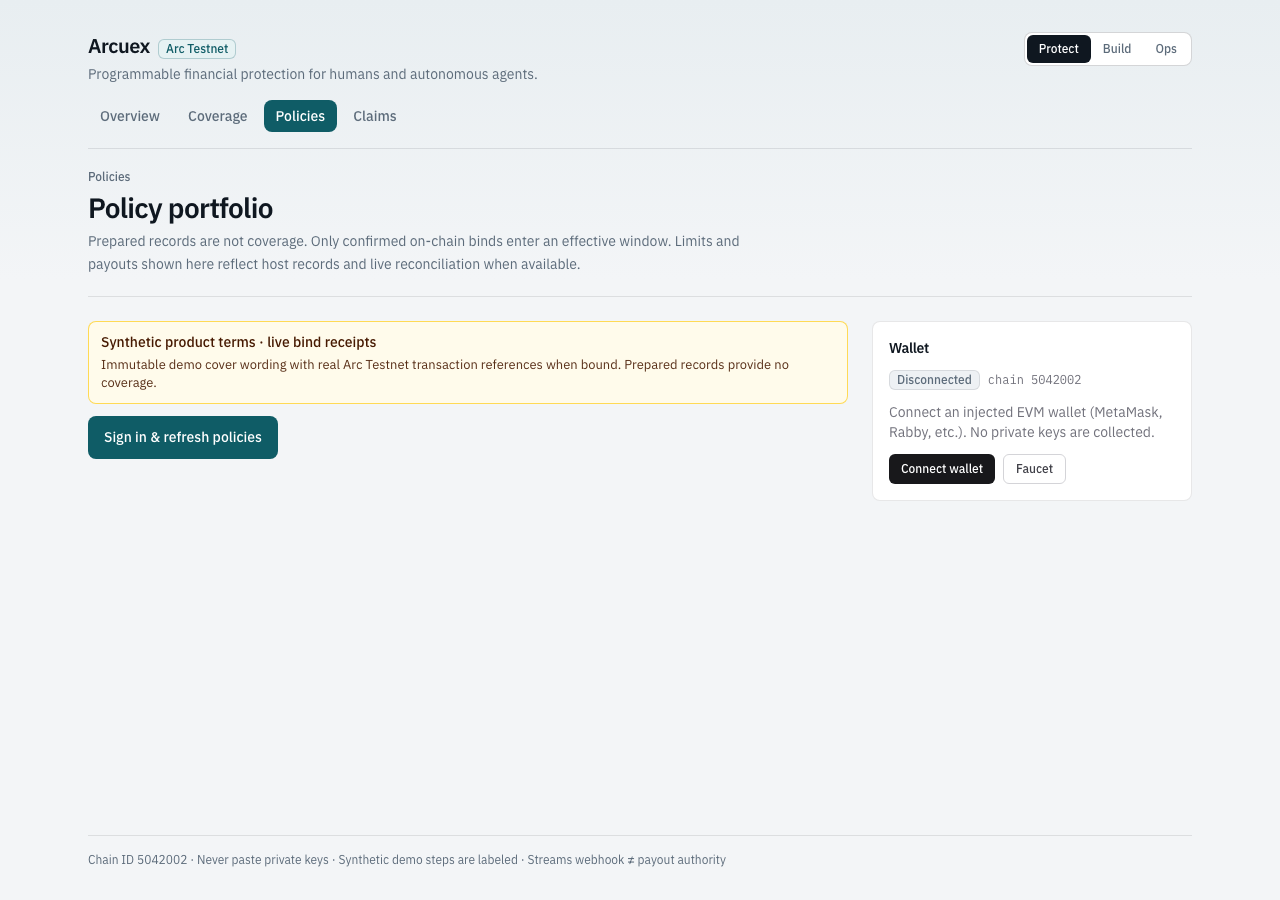
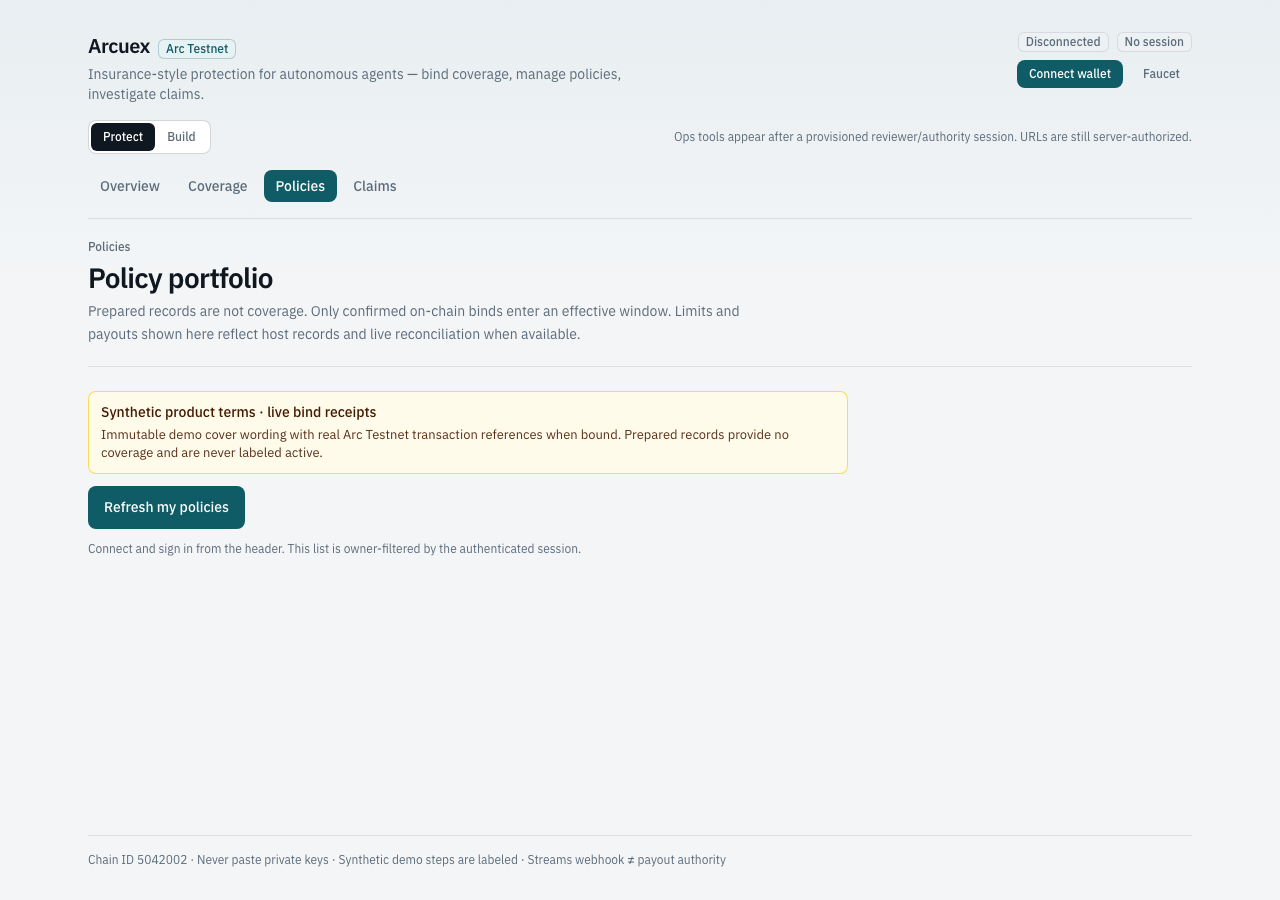
docs(ui): visual-pass screenshots and claims auth consolidation
Refresh desktop/mobile evidence after the product UX pass, dedupe unauthenticated claims prompts, and record verification without deploying Railway.

diff --git a/apps/web/src/components/claims/claims-workspace.tsx b/apps/web/src/components/claims/claims-workspace.tsx
@@ -33,19 +33,20 @@ export function ClaimsWorkspace() {
       ) : !session ? (
         <AuthRequired description="Use Sign in in the header after connecting your wallet. Cases load only with a server session cookie." />
       ) : (
-        <p className="text-sm text-[var(--ink-muted)]">
-          Signed in as <span className="font-medium text-[var(--ink)]">{session.role}</span>
-          {session.wallet ? (
-            <>
-              {' '}
-              · <span className="font-mono text-xs">{session.wallet}</span>
-            </>
-          ) : null}
-          . Wallet and session controls stay in the header.
-        </p>
+        <>
+          <p className="text-sm text-[var(--ink-muted)]">
+            Signed in as <span className="font-medium text-[var(--ink)]">{session.role}</span>
+            {session.wallet ? (
+              <>
+                {' '}
+                · <span className="font-mono text-xs">{session.wallet}</span>
+              </>
+            ) : null}
+            . Wallet and session controls stay in the header.
+          </p>
+          <ClaimsCaseList />
+        </>
       )}
-
-      <ClaimsCaseList />
 
       <details className="rounded-[var(--radius)] border border-[var(--line)] bg-[var(--surface)] p-4 text-sm">
         <summary className="cursor-pointer font-medium text-[var(--ink)]">

diff --git a/docs/working-notes/nov20-ui-redesign/acceptance-notes.md b/docs/working-notes/nov20-ui-redesign/acceptance-notes.md
@@ -1,21 +1,20 @@
-# Nov 20 UI redesign — acceptance notes (in progress)
+# Nov 20 UI redesign — acceptance notes (visual pass)
 
 **Branch:** `ui/nov20-product-experience`  
 **Base:** `fb6fe5d` (tested private beta tip)  
-**Deployed Railway beta:** **not modified**
+**Deployed Railway beta:** **not modified**  
+**Visual-pass tip:** see latest commits below (after `0b973f9`)
 
-## Commits
+## Commits (architecture + visual pass)
 
 | SHA | Summary |
 | --- | --- |
-| `2beab3f` | UX audit + design spec |
-| `54d941d` | Implementation plan |
-| `b081c6c` | Design tokens + primitives |
-| `aff670b` | Workspace nav + dual-entry landing |
-| `28d8bc0` | Coverage wizard chrome |
-| `566d462` | Policy portfolio/detail |
-| `d98048e` | Claims journey clarity |
-| `948ae7a` | Agent / integrations / capital polish |
+| `2beab3f` … `0b973f9` | Prior redesign: tokens, shell, coverage chrome, claims/agents polish, first screenshots |
+| `978d428` | Persistent wallet + session indicator; Ops chrome gated on session role |
+| `77b810a` | Stronger public landing hero + grounded demo journey |
+| `40acd84` | Progressive four-stage coverage wizard |
+| `0f87824` | Simplified claims IA (My claims / submit / expandable help) |
+| `6fb0586` | Agents, policies, Protect overview empty states |
 
 ## Verification (local)
 
@@ -26,10 +25,15 @@
 
 ## UX decisions that would need backend coordination (not implemented)
 
-1. **Server-side workspace / role chrome** — Protect/Build/Ops is client `localStorage` only so it stays independent of wallet auth. Mapping ops chrome to verified reviewer/authority sessions would need a stable, non-secret session summary API contract and must not escalate privileges in the client.
-2. **Historic pool policy → claimable procurement policy** — on-chain beneficiary wallet still has no SQLite `procurement_policies` row; importing/reconciling legacy pool policies into confirmed procurement records is a backend product rule, not a UI-only change.
-3. **Signed-in session indicator in the shell** — showing “signed in as 0x…” everywhere needs a consistent session read without exposing tokens; optional follow-up using existing `/api/claims/auth/session`.
-4. **New routes for Protect overview vs landing** — intentionally avoided; `/` dual-purposes landing vs Protect overview by workspace to preserve route stability.
+1. **Historic pool policy → claimable procurement policy** — on-chain beneficiary wallet may still have no SQLite `procurement_policies` row; importing/reconciling legacy pool policies into confirmed procurement records is a backend product rule, not a UI-only change.
+2. **Authenticated portfolio fixtures for screenshots** — empty/disconnected states are captured locally; signed-in wallet journeys still need a real Arc Testnet wallet + session cookie (and optional seeded procurement rows) for visual review of populated policies/claims.
+3. **New routes for Protect overview vs landing** — intentionally avoided; `/` dual-purposes landing vs Protect overview by workspace to preserve route stability.
+
+## Implemented without new backend APIs
+
+- Shell **AccountBar** reads `GET /api/claims/auth/session` and exposes Connect / Sign in / Sign out from the header.
+- Ops workspace switcher is shown only when session role is `reviewer` or `authority` (chrome only — URLs remain server-authorized).
+- Coverage wizard stages, claims IA, agents IA, and empty-state copy are client presentation only.
 
 ## Deferred features
 
@@ -38,15 +42,20 @@
 - Capital LP deposit productization  
 - Full Playwright journey suite against Railway (pending redesign acceptance + gate)  
 - Visual regression CI  
+- Deploy / merge of this branch  
 
-## Screenshot checklist
+## Screenshot checklist (visual pass)
 
-Captured under `docs/working-notes/nov20-ui-redesign/screenshots/` (local `next start` on `127.0.0.1:3017`, `ARCUEX_DEPLOYMENT_MODE=local-test`, Playwright 1280×900 desktop / 390×844 mobile, 2026-11-17):
+Captured under `docs/working-notes/nov20-ui-redesign/screenshots/` (local `next start` on `127.0.0.1:3017`, `ARCUEX_DEPLOYMENT_MODE=local-test`, volume identity file present, Playwright 1280×900 desktop / 390×844 mobile, 2026-11-17):
 
-- [x] Landing desktop + mobile — `landing-desktop.png`, `landing-mobile.png`  
-- [x] Protect overview — `protect-overview-desktop.png` (`arcuex.workspace=protect`, `/`)  
-- [x] Coverage wizard — `coverage-desktop.png`  
-- [x] Policies — `policies-desktop.png`  
-- [x] Claims — `claims-desktop.png`, `claims-mobile.png`  
-- [x] Agent — `agent-desktop.png` (`workspace=build`)  
-- [x] Ops review — `ops-review-desktop.png` (`workspace=ops`, `/claims/review`)  
+- [x] Landing desktop + mobile — `landing-desktop.png`, `landing-mobile.png`
+- [x] Protect overview — `protect-overview-desktop.png` (`arcuex.workspace=protect`, `/`)
+- [x] Coverage wizard — `coverage-desktop.png`, `coverage-mobile.png`
+- [x] Policies — `policies-desktop.png`, `policies-mobile.png`
+- [x] Claims — `claims-desktop.png`, `claims-mobile.png`
+- [x] Agent — `agent-desktop.png`, `agent-mobile.png` (`workspace=build`)
+- [x] Ops review — `ops-review-desktop.png` (`workspace=ops`, `/claims/review`)
+
+## Review posture
+
+Architecture remains **CONDITIONAL GO**. This pass addresses the NO-GO visual/IA feedback (hero, progressive wizard, claims simplification, shell session indicator, agents/policies empty states). **Do not deploy or merge** until visual + functional review of the new screenshots.
